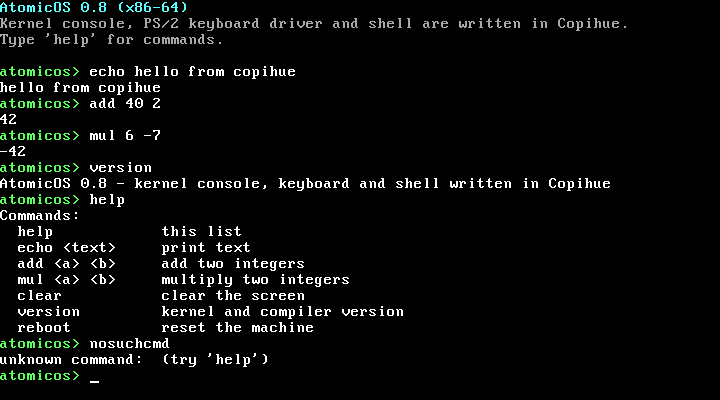
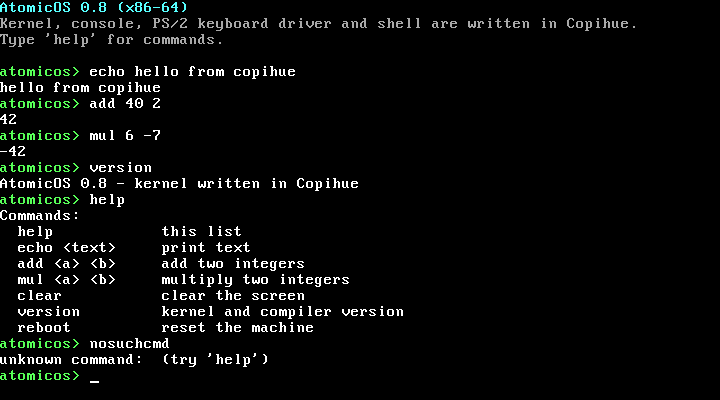
docs: kernel is 100% Copihue

Changed region(s): [[0.1222, 0.03, 0.6722, 0.09], [0.275, 0.45, 0.8556, 0.48], [0.7028, 0.03, 0.8556, 0.09]]

diff --git a/README.md b/README.md
@@ -5,11 +5,13 @@
 [![License: MIT](https://img.shields.io/badge/License-MIT-blue.svg)](LICENSE)
 [![Version](https://img.shields.io/badge/version-5.2.2-green)](VERSION) [![CI](https://github.com/ipenas-cl/AtomicOS/actions/workflows/ci.yml/badge.svg)](https://github.com/ipenas-cl/AtomicOS/actions/workflows/ci.yml)
 
+**Written in [Copihue](https://github.com/ipenas-cl/copihue).**
+
 ## Overview
 
-AtomicOS is a hobby operating system written in x86-64 assembly. The long-term idea is a deterministic, real-time kernel for security-critical use, where every operation has a known worst-case execution time (WCET) and isolation is enforced by hardware.
+AtomicOS is a hobby operating system. Its kernel is written in [Copihue](https://github.com/ipenas-cl/copihue); only the 512-byte bootloader is x86-64 assembly. The long-term idea is a deterministic, real-time kernel for security-critical use, where every operation has a known worst-case execution time (WCET) and isolation is enforced by hardware.
 
-> **Status: experimental hobby OS.** `make all` builds a bootable 64-bit image: a NASM bootloader switches to long mode and loads a kernel whose **VGA/serial console, PS/2 keyboard driver and shell are written in [Copihue](https://github.com/ipenas-cl/copihue)** (the language formerly called Chronos, which grew out of Tempo). In QEMU you can type commands (`help`, `echo`, `add`, `mul`, `clear`, `version`, `reboot`); CI boots the image, types commands with QEMU's `sendkey` and checks the replies. The features under "Design goals" are goals, not implemented features.
+> **Status: experimental hobby OS.** `make all` builds a bootable 64-bit image: a NASM bootloader switches to long mode and loads a kernel that is **written entirely in [Copihue](https://github.com/ipenas-cl/copihue)**: entry point and .bss setup, VGA/serial console, PS/2 keyboard driver and shell (the language formerly called Chronos, which grew out of Tempo). In QEMU you can type commands (`help`, `echo`, `add`, `mul`, `clear`, `version`, `reboot`); CI boots the image, types commands with QEMU's `sendkey` and checks the replies. The features under "Design goals" are goals, not implemented features.
 
 ![AtomicOS shell running a Copihue kernel in QEMU](docs/copihue-shell.png)
 
@@ -20,11 +22,11 @@ Measured by source lines that end up in the boot image:
 | | Before (v5.2.2) | Now |
 |---|---|---|
 | Bootloader (NASM) | 231 | 233 (`boot64.asm`, now reads the kernel with LBA) |
-| Kernel, assembly | 75 (`kernel_simple64.asm`) | 29 (`entry64.asm`: stack, clear .bss, call `kmain`) |
-| Kernel, Copihue | 0 | 299 (`src/kernel/copihue/*.cph`) |
-| **Share in Copihue** | **0%** | **~53% of the image, ~91% of the kernel** |
+| Kernel, assembly | 75 (`kernel_simple64.asm`) | 0 (no entry stub, no inline `asm()`) |
+| Kernel, Copihue | 0 | 318 (`src/kernel/copihue/*.cph`, built with `copihue --flat 0x10000`) |
+| **Share in Copihue** | **0%** | **100% of the kernel; ~58% of the image by source lines (the rest is the bootloader)** |
 
-The compiler is pinned to an exact commit (`COPIHUE_COMMIT` in the `Makefile`); `make` fetches and builds it into `build/copihue`. To use a local compiler: `make COPIHUEC=/path/to/copihuec`. The older `*.asm`, `*.inc` and `*.tempo` files under `src/kernel/` are not part of the current image (see `src/kernel/LEGACY.md`).
+The compiler is pinned to an exact commit (`COPIHUE_COMMIT` in the `Makefile`); `make` fetches and builds it into `build/copihue`. To use a local compiler: `make COPIHUE=/path/to/copihue`. The older `*.asm`, `*.inc` and `*.tempo` files under `src/kernel/` are not part of the current image (see `src/kernel/LEGACY.md`).
 
 ## Co-evolution roadmap (planned)
 
@@ -73,7 +75,7 @@ make debug
 ## System Requirements
 
 - x86-64 machine or QEMU (`qemu-system-x86_64`)
-- `nasm`, `make`, `gcc` and `git` (to build the pinned Copihue compiler), `python3` for `make qemu-test`
+- `nasm`, `make`, `gcc` and `git` (to build the pinned Copihue compiler), `socat` for `make qemu-test` (`ffmpeg` only for screenshots)
 
 ## Architecture
 
